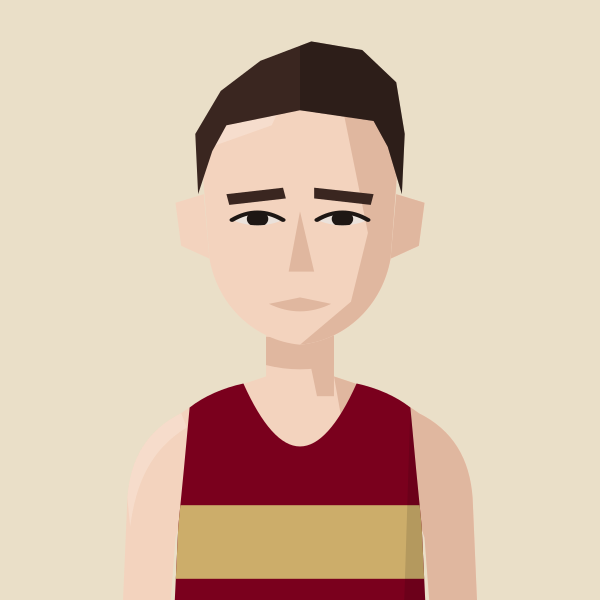
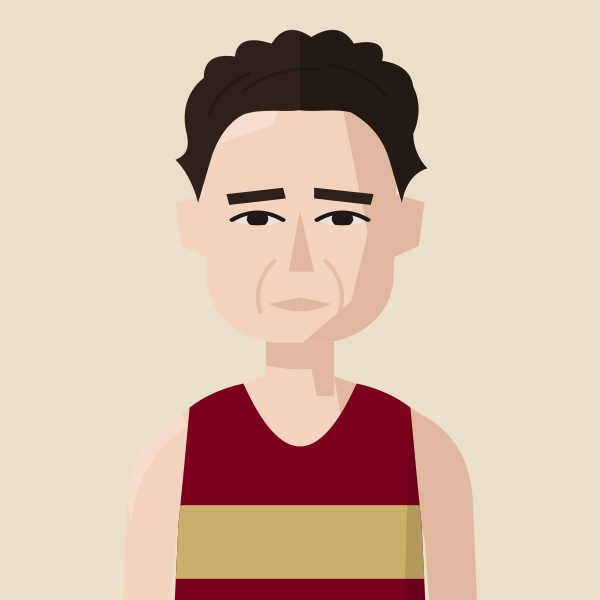
Portraits from The Belgravian, batch 7: Gerry North (redraw), Geoff North, Laurie O'Hara, Chris Steer, Barry Sawyer, Charlie Walker, John Dear, Michael Baker
Claude-Session: https://claude.ai/code/session_01DgcEr9hQHGiZw2mBbM5jbH

diff --git a/files/index.html b/files/index.html
@@ -591,12 +591,12 @@ const LoadingVests=()=>{
 const PORTRAIT_CLUBS=new Set(['BEL','KEN','THH','HHH','H/W','SLH','G&G','RAN','C/C','DUL','HOL','WAL','CRO','WOK','E&E','FUL','SOC','BOX','BOH','AFD','SUR','MIT','REI','DMV','STR','W4H','W/W','K&P','S&D','SEL','DWN','FOT','LCR','ADV','262','MPA','BAC','OME','VAC','HER']);
 // Superstar portraits: every spelling of the athlete's name used in the data -> file in portraits/athletes/
 const PORTRAITS=(()=>{const m={};const add=(file,club,...names)=>names.forEach(n=>{const k=n.toLowerCase();if(m[k]&&m[k].club!==club)m[k+'@'+club]={file,club};else m[k]={file,club};});
-add('kitty-shepherd-cross','BEL','Kitty Shepherd-Cross','Kitty Shepherd Cross');add('jack-kavanagh','HOL','Jack Kavanagh');add('sam-bramwell','HHH','Sam Bramwell');add('suzie-harvey','G&G','Suzie Harvey');add('freddie-hessian','H/W','Freddie Hessian');add('jamie-crowe','H/W','Jamie Crowe');add('sam-gebreselassie','BEL','Samuel Gebreselassie','Sam Gebreselassie');add('jack-brotchie','HHH','Jack Brotchie');add('jack-millar','THH','Jack Millar');add('lucy-jones','HHH','Lucy Jones');add('alex-milne','H/W','Alex Milne');add('josh-trigwell','BEL','Josh Trigwell');add('mack-downie','BEL','Mack Downey','Mack Downie');add('george-ogden','SLH','George Ogden');add('stuart-mccallum','H/W','Stuart McCallum');add('andrew-penney','H/W','Andrew Penney');add('jeremy-dempsey','THH','Jeremy Dempsey');add('henry-hart','BEL','Henry Hart');add('john-sanderson','G&G','John Sanderson');add('andy-fyfe','BEL','Andrew Fyfe','Andy Fyfe');add('saron-haileselase','BEL','Saron Haileselase');add('paskar-owor','BEL','Paskar Owor');add('ruby-carter','H/W','Ruby Carter');add('tom-foster','G&G','Tom Foster');add('mark-tennyson','G&G','Mark Tennyson');add('richard-ollington','THH','Richard Ollington');add('james-preston','BEL','James Preston');add('daniel-wolff','BEL','Daniel Wolff');add('jonny-scott','BEL','Jonathan Scott','Jonny Scott');add('josh-mitchell','BEL','Josh Mitchell');add('dylan-evans','BEL','Dylan Evans');add('morgan-roberts','HHH','Morgan Roberts');add('fred-slemeck','H/W','Fred Slemeck','Frederick Slemeck');add('matthew-edgar','BEL','Matthew Edgar');add('sam-sommerville','BEL','Sam Sommerville');add('richard-mcdowell','H/W','Richard McDowell');add('margaret-coogan','HHH','Margaret Coogan');add('owen-hind','KEN','Owen Hind','Owen Hinds');add('indy-barnes','THH','Indy Barnes');add('conall-mcnally','BEL','Conall McNally');add('rowan-board','HHH','Rowan Board');add('andy-weir','THH','Andy Weir','Andrew Weir');add('neil-chisholm','THH','Neil Chisholm','Neal Chisholm');add('pancho-panchev','H/W','Pancho Panchev');add('adrien-royer','G&G','Adrien Royer');add('rob-kelly','BEL','Robert Kelly','Rob Kelly');add('alex-janiaud','BEL','Alex Janiaud');add('jack-ramm','DUL','Jack Ramm');add('findlay-dyer','BEL','Findlay Dyer');add('james-blackwood','DUL','James Blackwood');add('sonny-nicoll','H/W','Sonny Nicoll');add('anisse-ismaili','THH','Anisse Ismaili');add('caleb-hathaway','HHH','Caleb Hathaway');add('barnaby-day','KEN','Barnaby Day');add('simon-coppard','BEL','Simon Coppard');add('ronan-tanguy','HHH','Ronan Tanguy');add('chris-threadgold','BEL','Chris Threadgold');add('mathew-speed','KEN','Mathew Speed','Matthew Speed');add('john-lethbridge','THH','John Lethbridge');add('oliver-fox','THH','Oliver Fox');add('jack-woods','HOL','Jack Woods');add('larry-ryan','BEL','Larry Ryan');add('ethan-mccolgan','THH','Ethan McColgan');add('jonathan-collier','KEN','Jonathan Collier');add('andrew-green','HOL','Andrew Green','Andy Green');add('fintan-pearce','BEL','Fintan Pearce');add('daniel-shaw','HHH','Daniel Shaw');add('sam-tyas','BEL','Sam Tyas');add('tom-austin','HHH','Tom Austin');add('ian-ellwood','KEN','Ian Ellwood');add('rian-mccawley','BEL','Rian McCawley');add('kieran-barnes','HOL','Kieran Barnes');add('ed-mallett','H/W','Ed Mallett','Edward Mallett');add('john-hutchins','WOK','John Hutchins');add('george-gathercole','THH','George Gathercole');add('nick-lightfoot','G&G','Nick Lightfoot');add('eoin-brady','H/W','Eoin Brady');add('james-stockings','H/W','James Stockings');add('jack-hobden','H/W','Jack Hobden');add('hugo-hewitt','HOL','Hugo Hewitt');add('zach-nolan','BEL','Zach Nolan');add('isaac-lutaya','H/W','Isaac Lutaya');add('oliver-young','BEL','Oliver Young');add('ben-racle','KEN','Ben Racle');add('josh-snow','BEL','Josh Snow');add('oliver-reynolds','BEL','Oliver Reynolds');add('aaron-wilson','DUL','Aaron Wilson');add('liam-burthem','HHH','Liam Burthem');add('dan-pettitt','KEN','Dan Pettitt');add('bob-holt','H/W','Bob Holt');add('dave-holt','H/W','Dave Holt');add('mike-fuller','H/W','Mike Fuller');add('mike-beevor','H/W','Mike Beevor');add('john-day','H/W','John Day');add('john-sullivan','H/W','John Sullivan');add('barry-collins','H/W','Barry Collins');add('bob-rayman','H/W','Bob Rayman');add('pete-mulholland','H/W','Pete Mulholland');add('charlie-eastaugh','H/W','Charlie Eastaugh');add('oli-carrington','H/W','Oli Carrington');add('jonathan-cornish','H/W','Jonathan Cornish');add('christopher-parker','THH','Christopher Parker');add('monty-hudson','BEL','Monty Hudson');add('dan-wallis-gg','G&G','Dan Wallis');add('ben-pearce','HOL','Ben Pearce');add('jacob-brockmann','THH','Jacob Brockmann');add('alex-gutteridge','HHH','Alex Gutteridge');add('tom-davies','H/W','Tom Davies');add('matt-wood','HHH','Matt Wood');add('isaac-parker','KEN','Isaac Parker');add('tom-omahoney','HHH','Tom O\'Mahoney');add('ed-brewer','G&G','Ed Brewer');add('james-bartram','THH','James Bartram');add('charlie-pickett','G&G','Charlie Pickett');add('harry-guttridge','C/C','Harry Guttridge');add('alex-harris','KEN','Alex Harris');add('tom-thornley','HOL','Tom Thornley');add('max-bloor','DUL','Max Bloor');add('john-foxall','HHH','John Foxall');add('robin-boon','G&G','Robin Boon');add('joe-english','KEN','Joe English');add('sebastian-anthony','G&G','Sebastian Anthony');add('thomas-gardner','BEL','Thomas Gardner');add('brian-wilder','HHH','Brian Wilder');add('george-jackson','HHH','George Jackson');add('james-roberts','BEL','James Roberts');add('ed-gibson','DUL','Ed Gibson');add('jack-harrison','SLH','Jack Harrison');add('matthew-varley','BEL','Matthew Varley');add('eddie-rolls','C/C','Eddie Rolls');add('phil-sanders','KEN','Phil Sanders');add('jon-phillips','DUL','Jon Phillips');add('noah-fernandez','H/W','Noah Fernandez');add('paul-calver','HHH','Paul Calver');add('jordan-weaver','KEN','Jordan Weaver');add('john-thresher','BEL','John Thresher','J Thresher');add('junior-galley','BEL','Junior Galley');add('tony-binda','BEL','Tony Binda');add('phil-carstairs','BEL','Phil Carstairs');add('clive-gilby','BEL','Clive Gilby');add('roger-alsop','HHH','Roger Alsop');add('roger-alsop-bel','BEL','Roger Alsop');add('gerry-adams','BEL','Gerry Adams');add('mike-nouch','BEL','Mike Nouch');add('darren-mead','BEL','Darren Mead');add('james-estall','BEL','James Estall','Jim Estall','J Estall');add('thomas-renshaw','THH','Thomas Renshaw','Tom Renshaw');add('amittai-ben-israel','THH','Amittai Ben-Israel');add('helena-keenan','HHH','Helena Keenan');add('eloise-bull','G&G','Eloise Bull');add('gemma-newport','BEL','Gemma Newport');add('sarah-palmer','STR','Sarah Palmer');add('sarah-palmer-ran','RAN','Sarah Palmer');add('elinor-skinner','KEN','Elinor Skinner');add('sarah-holt','STR','Sarah Holt');add('serena-carter','THH','Serena Carter');add('abbey-brooke','BEL','Abbey Brooke');add('becky-briggs','BEL','Becky Briggs');add('maddie-mastrolonardo','BEL','Maddie Mastrolonardo');add('jennifer-nandi','HHH','Jennifer Nandi');add('ella-fennelly','BEL','Ella Fennelly');add('natalie-beadle','BEL','Natalie Beadle');add('pamela-mchutchon','STR','Pamela McHutchon');add('gerry-north','BEL','Gerry North');add('steve-gardner','BEL','Steve Gardner');add('alex-yee','KEN','Alex Yee');add('phil-wicks','BEL','Phil Wicks');add('john-gilbert','KEN','John Gilbert','Jonathan Gilbert');add('chris-busaileh','KEN','Chris Busaileh');add('jim-allchin','KEN','Jim Allchin');add('finn-johnson','H/W','Finn Johnson');add('will-cockerell','BEL','William Cockerell','Will Cockerell');add('nick-goolab','BEL','Nick Goolab');add('arne-dumez','BEL','Arne Dumez');add('geoff-jerwood','HHH','Geoff Jerwood','G Jerwood');add('alex-lee','HHH','Alex Lee');add('benedict-whitby','HHH','Benedict Whitby');add('falilou-kebe','BEL','Falilou Kebe');add('jack-dickson','H/W','Jack Dickson');add('phil-swinburn','HOL','Phil Swinburn');add('rob-armstrong','DUL','Rob Armstrong');add('ashley-goncalves','HHH','Ashley Goncalves');add('eddie-jodrell','BEL','Eddie Jodrell');add('thomas-gandee','BEL','Thomas Gandee');add('max-milarvie','DUL','Max Milarvie');add('alex-lennon','BEL','Alex Lennon');add('james-hoad','THH','James Hoad');add('william-gardner','BEL','William Gardner');add('paddy-roddy','THH','Paddy Roddy','PADDY RoDDY');add('simon-waterhouse','BEL','Simon Waterhouse');add('conall-whelan','BEL','Conall Whelan');add('simon-williams','BEL','Simon Williams');add('christian-lee','HOL','Christian Lee');add('sean-cordon','DUL','Sean Cordon','sean cordon');add('michael-mccarthy','BEL','Michael McCarthy','Michael Mccarthy');add('jeff-cunningham','HHH','Jeff Cunningham');add('sam-peters','H/W','Sam Peters');add('ryan-hickey','HHH','Ryan Hickey');add('ben-scott','BEL','Ben Scott');add('tom-gifford','BEL','Tom Gifford');add('valentin-rigori','BEL','Valentin Rigori');add('david-grima','H/W','David Grima');add('deron-fagan','HHH','Deron Fagan');add('lee-lintern','G&G','Lee Lintern');add('ian-acreman','G&G','Ian Acreman');add('alex-howard','THH','Alex Howard');add('james-hancock','BEL','James Hancock');add('nick-morris','BEL','Nick Morris');add('richard-sun','H/W','Richard Sun');add('jonathan-cocker','G&G','Jonathan Cocker');add('isobel-hodder','BEL','Isobel Hodder');add('emma-howsham','G&G','Emma Howsham');add('eilidh-hide','BEL','Eilidh Hide');add('karen-xiang','BEL','Karen Xiang');add('claire-grima','H/W','Claire Grima');add('emma-gordon','BEL','Emma Gordon');add('emily-lowery','BEL','Emily Lowery');add('felicity-harrison','BEL','Felicity Harrison');add('alice-martin','HOL','Alice Martin');add('juliet-hodder','BEL','Juliet Hodder');add('abbie-bulbulian','C/C','Abbie Bulbulian');add('lara-mangan','BEL','Lara Mangan');add('clare-elms','KEN','Clare Elms');add('james-nutt','HHH','James Nutt');add('colin-high','G&G','Colin High');add('gavin-eccles','BEL','Gavin Eccles');add('samuel-dames','KEN','Samuel Dames');add('tom-lole','BEL','Tom Lole');add('will-marshall','BEL','Will Marshall');add('stephen-mcleod','HHH','Stephen McLeod');add('rory-orsborn','HHH','Rory Orsborn');add('thomas-dugre','BEL','Thomas Dugre');add('arthur-peel','BEL','Arthur Peel');add('angus-lamb','BEL','Angus Lamb');add('andrew-warburton','HHH','Andrew Warburton');add('robert-laing','KEN','Robert Laing');add('toby-cooke','H/W','Toby Cooke');add('harrison-hayman','SLH','Harrison Hayman');add('edward-chuck','DUL','Edward Chuck');add('robert-sesemann','KEN','Robert Sesemann');add('eoin-molloy','BEL','Eoin Molloy');add('ollie-garrod','BEL','Ollie Garrod');add('matthew-houchell','G&G','Matthew Houchell');add('ben-clarke','KEN','Ben Clarke');add('benjamin-hilson','HOL','Benjamin Hilson');add('molly-oconnor','KEN',"Molly O'Connor");add('iona-cousland','KEN','Iona Cousland');add('anika-schwarze-chintapatla','THH','Anika Schwarze-Chintapatla');add('suzy-whatmough','RAN','Suzy Whatmough');add('kristina-popadich','BEL','Kristina Popadich');add('dillan-quinn','H/W','Dillan Quinn');add('sarah-riceman','BEL','Sarah Riceman');add('holly-pan','BEL','Holly Pan');add('jermaine-mays','SLH','Jermaine Mays');add('gary-staines','BEL','Gary Staines');add('charlie-wyllie','H/W','Charlie Wyllie');add('george-cotton','WOK','George Cotton');add('cameron-reilly','G&G','Cameron Reilly');add('jack-dormer','WOK','Jack Dormer');add('lea-adamson','BEL','Lea Adamson');add('max-heyden','BEL','Max Heyden');add('ian-crowe-wright','BEL','Ian Crowe-Wright');add('neil-wilson','BEL','Neil Wilson');add('lloyd-kempson','BEL','Lloyd Kempson');add('andy-coley-maud','G&G','Andy Coley-Maud');add('dan-cliffe','H/W','Dan Cliffe');add('patrick-mcdougall','BEL','Patrick McDougall','Patrick Mcdougall');add('callum-stewart','BEL','Callum Stewart');add('jamie-parkinson','THH','Jamie Parkinson');add('phil-sesemann','KEN','Phil Sesemann');add('andy-coley-maud-cc','C/C','Andy Coley-Maud');add('jon-pepper-slh','SLH','Jon Pepper');add('ralph-street','RAN','Ralph Street');add('jon-pepper','RAN','Jon Pepper');add('kevin-quinn','SLH','Kevin Quinn');add('frank-tickner','KEN','Frank Tickner');add('paul-pollock','KEN','Paul Pollock');add('chris-busaileh-hhh','HHH','Chris Busaileh','Chris Busileah');add('james-mcmullan','THH','James McMullan');add('ben-hurley','BEL','Ben Hurley');add('alice-crane','DMV','Alice Crane');add('martina-conner','BEL','Martina Conner');add('georgie-grgec','HHH','Georgie Grgec');add('katie-snowden','HHH','Katie Snowden');add('kate-axford','BEL','Kate Axford');add('sarah-astin','BEL','Sarah Astin');add('georgie-bruinvels','SLH','Georgie Bruinvels','G Bruinvels','Georgia Bruinvels');add('samantha-munday','BEL','Samantha Munday','Sanantha Munday');add('holly-nixon','BEL','Holly Nixon');add('sophie-harris','BEL','Sophie Harris');add('isabel-brinsden','E&E','Isabel Brinsden');add('mimi-corden-lloyd','BEL','Mimi Corden-Lloyd');add('steph-hewitt','BEL','Stephanie Hewitt','Steph Hewitt');add('jared-martin','THH','Jared Martin');add('david-bowers','BEL','David Bowers','Dave Bowers');add('stuart-major','SLH','Stuart Major');add('stuart-major-thh','THH','Stuart Major');add('bernie-ford','AFD','Bernie Ford','B Ford');add('dave-taylor','HHH','Dave Taylor');add('arlo-ludewick','HHH','Arlo Ludewick');add('molly-smith','HHH','Molly Smith');add('tom-conlon','HHH','Tom Conlon','T Conlon');add('mike-cummings','HHH','Mike Cummings','M Cummings');add('simon-wurr','THH','Simon Wurr','S Wurr');add('cameron-dockerill','KEN','Cameron Dockerill','Cam Dockerill');add('james-ewing','KEN','James Ewing','Jamie Ewing');add('james-murray','KEN','James Murray');add('phil-woodford-smith','KEN','Phil Woodford-Smith');add('clare-pauzers','HHH','Clare Pauzers','Clare Pauzer','Claire Pauzer');add('steve-smythe','DUL','Steve Smythe','S Smythe','S Smyth','Steve Smyth','SMYTHE');add('steve-smythe-hhh','HHH','Steve Smythe');add('david-symons','THH','David Symons','Dave Symons','D Symons');add('john-foss','SLH','John Foss','John Fosse');add('lucy-macalister','THH','Lucy Macalister','L Macalister');add('vic-maughan','HHH','Vic Maughan','Vic Maughn','Victor Maughn','V Maughan','V Maughn','V Maugan');add('lewis-lloyd','HHH','Lewis Lloyd');add('nic-lukies','BEL','Nic Lukies');add('max-nicholls','KEN','Max Nicholls');add('nick-acfield','KEN','Nick Acfield');add('olly-buck','KEN','Olly Buck');add('dame-dibaba','KEN','Dame Dibaba');add('chris-greenwood','KEN','Chris Greenwood','Christopher Greenwood');add('chris-keavey','BEL','Chris Keavey','C Keavey');add('john-moore','BEL','John Moore');add('john-bromley','BEL','John Bromley');add('don-maclean','BEL','Don Maclean','Don McLean','D Maclean');add('david-north','BEL','Dave North','David North','D North');add('mark-waller','BEL','Mark Waller','M Waller');add('john-gladwin','BEL','John Gladwin','J Gladwin');add('alan-black','BEL','Alan Black');add('james-kelly','BEL','James Kelly');add('russell-dessaix-chin','BEL','Russell Dessaix-Chin');add('malachi-byansi','BEL','Malachi Byansi','Mal Byansi','M Byansi','Martin Byansi','Moses Byansi');add('chris-moss','BEL','Chris Moss');add('richard-ward','BEL','Richard Ward');add('david-anderson','BEL','David Anderson');add('spencer-barden','BEL','Spencer Barden');add('jonathon-blackledge','BEL','Jonathon Blackledge','J Blackledge');add('peter-clarke','H/W','Peter Clarke','P Clarke','Pete Clarke');add('mark-sinclair','BEL','Mark Sinclair','M Sinclair');add('jean-paul-wright','BEL','Jean Paul Wright','J Wright');add('mike-hayes','BEL','Mike Hayes','M Hayes');add('marcello-bizio','BEL','Marcello Bizio','M Bizio');add('ollie-foote','BEL','Oliver Foote','Ollie Foote','O Foote');add('tim-watson','BEL','Tim Watson','T Watson');add('mark-miles','BEL','Mark Miles','M Miles');add('kevin-nash','BEL','Kevin Nash','K Nash');add('paul-freary','BEL','Paul Freary','P Freary');add('stephen-sharp','BEL','Steve Sharp','Stephen Sharp');add('kassa-tadesse','BEL','Kassa Tadesse','K Tadesse');add('mike-farmery','THH','Mike Farmery','M Farmery','N Farmery');add('tom-south','DUL','Tom South','Thomas South');add('peter-giles','H/W','Peter Giles');add('peter-giles-thh','THH','Peter Giles');add('simon-coombes','HHH','Simon Coombes','S Coombes');add('david-ogden','SLH','David Ogden','Dave Ogden','D Ogden');add('robert-elphick','KEN','Robert Elphick');add('tony-harran','HHH','Tony Harran','Anthony Harran','A Harran','T Harran');add('ben-reynolds','THH','Ben Reynolds','B Reynolds');add('tom-jervis','H/W','Tom Jervis');add('nick-torry','KEN','Nick Torry','Nicholas Torry');add('john-bicourt','BEL','John Bicourt','J Bicourt');add('ruby-whyte-wilding','BEL','Ruby Whyte-Wilding');add('sophie-tooley','HHH','Sophie Tooley');add('catherine-kandie','KEN','Catherine Kandie');add('olivia-stillman','HHH','Olivia Stillman');add('alex-gandee','BEL','Alex Gandee');add('billie-mcclosky','BEL','Billie McClosky');add('lisa-bailey','STR','Lisa Bailey');add('amy-clements','KEN','Amy Clements');add('bethanie-murray','THH','Bethanie Murray');add('evie-warren','G&G','Evie Warren');add('lucy-peters','BEL','Lucy Peters');add('emma-lord','H/W','Emma Lord');add('alice-bridger-morales','HHH','Alice Bridger Morales');add('emily-bradley','BEL','Emily Bradley');add('isabelle-pickett','G&G','Isabelle Pickett');add('felicity-hayward','THH','Felicity Hayward');add('gabriel-reynolds','HHH','Gabriel Reynolds');add('lara-bromilow','KEN','Lara Bromilow');add('megan-gildea','HHH','Megan Gildea');add('maeve-kenny','SLH','Maeve Kenny');add('emilie-arnoux','BEL','Emilie Arnoux');add('katie-good','KEN','Katie Good');add('ellie-freeden','KEN','Ellie Freeden');add('alice-smith','SLH','Alice Smith');add('florence-wiggins','THH','Florence Wiggins');add('alexandra-barbour','BEL','Alex Barbour','Alexandra Barbour');add('ella-king-powrie','BEL','Ella King Powrie');add('betsy-griffiths','RAN','Betsy Griffiths');add('nicola-douglas','STR','Nicola Douglas');add('georgie-furze','WOK','Georgie Furze');add('emma-rowland','BEL','Emma Rowland');add('charlotte-griffiths','BEL','Charlotte Griffiths');add('mary-james','SLH','Mary James');add('penny-oliver','BEL','Penny Oliver');add('ava-mcandie','H/W','Ava McAndie');add('bethan-goddard','BEL','Bethan Goddard');add('nikki-sturzaker','HHH','Nikki Sturzaker');add('hannah-english','HHH','Hannah English');add('clara-pettit','H/W','Clara Pettit');add('adrian-major','BEL','Adrian Major');add('bill-kerr','BEL','Bill Kerr','W Kerr');add('brian-gorman','BEL','Brian Gorman','B Gorman');add('charlie-dabbs','BEL','Charlie Dabbs','C Dabbs');add('charlie-manning','BEL','Charlie Manning','C Manning','Charlie Maning');add('john-davies','BEL','John Davies');add('lionel-mann','BEL','Lionel Mann','L Mann');add('pat-newell','BEL','Pat Newell','P Newell');add('tony-fairclough','BEL','Tony Fairclough');add('trevor-hart','BEL','Trevor Hart');add('ron-linstead','BEL','Ron Linstead','R Linstead');add('john-baker','BEL','John Baker','J V Baker','J Baker');add('simon-holmes','BEL','Simon Holmes','S Holmes');add('mike-kortenray','H/W','Mike Kortenray','M Kortenray');add('geoff-biscoe','MIT','Geoff Biscoe','G Biscoe');add('andy-north','BEL','Andy North','A North');add('charlie-dickinson','BEL','Charlie Dickinson','C Dickinson');add('dave-beaver','BEL','Dave Beaver','D Beaver');add('john-mather','BEL','John Mather','J Mather','Jon Mather');add('jon-hobbs','BEL','Jon Hobbs','J Hobbs');add('justin-chaston','BEL','Justin Chaston','J Chaston');add('matt-chaston','BEL','Matt Chaston','M Chaston');add('mark-anderson','BEL','Mark Anderson','M Anderson');add('martin-lake','BEL','Martin Lake','M Lake');add('martin-lewington','BEL','Martin Lewington','M Lewington');add('pete-gardner','BEL','Pete Gardner','P Gardner');add('ray-foley','BEL','Ray Foley','R Foley');add('richard-langley','BEL','Richard Langley');add('don-faircloth','CRO','Don Faircloth','D Faircloth');add('john-kimaiyo','BEL','John Kimaiyo');add('martin-dent','BEL','Martin Dent');add('catherine-bryson','BEL','Catherine Bryson','C Bryson');add('gabby-collison','BEL','Gabby Collison','G Collison','Gabrielle Collison');add('jodie-favell','BEL','Jodie Favell','Jodie Albrow');add('louise-cooper','BEL','Louise Cooper','L Cooper');add('sarah-murphy','BEL','Sarah Murphy');add('tilly-heaton','C/C','Tilly Heaton','Mathilde Heaton','Matilda Heaton');add('tilly-heaton-bel','BEL','Tilly Heaton','Mathilde Heaton','Matilda Heaton');add('vicky-clarke','BEL','Vicky Clarke','Victoria Clarke');
+add('kitty-shepherd-cross','BEL','Kitty Shepherd-Cross','Kitty Shepherd Cross');add('jack-kavanagh','HOL','Jack Kavanagh');add('sam-bramwell','HHH','Sam Bramwell');add('suzie-harvey','G&G','Suzie Harvey');add('freddie-hessian','H/W','Freddie Hessian');add('jamie-crowe','H/W','Jamie Crowe');add('sam-gebreselassie','BEL','Samuel Gebreselassie','Sam Gebreselassie');add('jack-brotchie','HHH','Jack Brotchie');add('jack-millar','THH','Jack Millar');add('lucy-jones','HHH','Lucy Jones');add('alex-milne','H/W','Alex Milne');add('josh-trigwell','BEL','Josh Trigwell');add('mack-downie','BEL','Mack Downey','Mack Downie');add('george-ogden','SLH','George Ogden');add('stuart-mccallum','H/W','Stuart McCallum');add('andrew-penney','H/W','Andrew Penney');add('jeremy-dempsey','THH','Jeremy Dempsey');add('henry-hart','BEL','Henry Hart');add('john-sanderson','G&G','John Sanderson');add('andy-fyfe','BEL','Andrew Fyfe','Andy Fyfe');add('saron-haileselase','BEL','Saron Haileselase');add('paskar-owor','BEL','Paskar Owor');add('ruby-carter','H/W','Ruby Carter');add('tom-foster','G&G','Tom Foster');add('mark-tennyson','G&G','Mark Tennyson');add('richard-ollington','THH','Richard Ollington');add('james-preston','BEL','James Preston');add('daniel-wolff','BEL','Daniel Wolff');add('jonny-scott','BEL','Jonathan Scott','Jonny Scott');add('josh-mitchell','BEL','Josh Mitchell');add('dylan-evans','BEL','Dylan Evans');add('morgan-roberts','HHH','Morgan Roberts');add('fred-slemeck','H/W','Fred Slemeck','Frederick Slemeck');add('matthew-edgar','BEL','Matthew Edgar');add('sam-sommerville','BEL','Sam Sommerville');add('richard-mcdowell','H/W','Richard McDowell');add('margaret-coogan','HHH','Margaret Coogan');add('owen-hind','KEN','Owen Hind','Owen Hinds');add('indy-barnes','THH','Indy Barnes');add('conall-mcnally','BEL','Conall McNally');add('rowan-board','HHH','Rowan Board');add('andy-weir','THH','Andy Weir','Andrew Weir');add('neil-chisholm','THH','Neil Chisholm','Neal Chisholm');add('pancho-panchev','H/W','Pancho Panchev');add('adrien-royer','G&G','Adrien Royer');add('rob-kelly','BEL','Robert Kelly','Rob Kelly');add('alex-janiaud','BEL','Alex Janiaud');add('jack-ramm','DUL','Jack Ramm');add('findlay-dyer','BEL','Findlay Dyer');add('james-blackwood','DUL','James Blackwood');add('sonny-nicoll','H/W','Sonny Nicoll');add('anisse-ismaili','THH','Anisse Ismaili');add('caleb-hathaway','HHH','Caleb Hathaway');add('barnaby-day','KEN','Barnaby Day');add('simon-coppard','BEL','Simon Coppard');add('ronan-tanguy','HHH','Ronan Tanguy');add('chris-threadgold','BEL','Chris Threadgold');add('mathew-speed','KEN','Mathew Speed','Matthew Speed');add('john-lethbridge','THH','John Lethbridge');add('oliver-fox','THH','Oliver Fox');add('jack-woods','HOL','Jack Woods');add('larry-ryan','BEL','Larry Ryan');add('ethan-mccolgan','THH','Ethan McColgan');add('jonathan-collier','KEN','Jonathan Collier');add('andrew-green','HOL','Andrew Green','Andy Green');add('fintan-pearce','BEL','Fintan Pearce');add('daniel-shaw','HHH','Daniel Shaw');add('sam-tyas','BEL','Sam Tyas');add('tom-austin','HHH','Tom Austin');add('ian-ellwood','KEN','Ian Ellwood');add('rian-mccawley','BEL','Rian McCawley');add('kieran-barnes','HOL','Kieran Barnes');add('ed-mallett','H/W','Ed Mallett','Edward Mallett');add('john-hutchins','WOK','John Hutchins');add('george-gathercole','THH','George Gathercole');add('nick-lightfoot','G&G','Nick Lightfoot');add('eoin-brady','H/W','Eoin Brady');add('james-stockings','H/W','James Stockings');add('jack-hobden','H/W','Jack Hobden');add('hugo-hewitt','HOL','Hugo Hewitt');add('zach-nolan','BEL','Zach Nolan');add('isaac-lutaya','H/W','Isaac Lutaya');add('oliver-young','BEL','Oliver Young');add('ben-racle','KEN','Ben Racle');add('josh-snow','BEL','Josh Snow');add('oliver-reynolds','BEL','Oliver Reynolds');add('aaron-wilson','DUL','Aaron Wilson');add('liam-burthem','HHH','Liam Burthem');add('dan-pettitt','KEN','Dan Pettitt');add('bob-holt','H/W','Bob Holt');add('dave-holt','H/W','Dave Holt');add('mike-fuller','H/W','Mike Fuller');add('mike-beevor','H/W','Mike Beevor');add('john-day','H/W','John Day');add('john-sullivan','H/W','John Sullivan');add('barry-collins','H/W','Barry Collins');add('bob-rayman','H/W','Bob Rayman');add('pete-mulholland','H/W','Pete Mulholland');add('charlie-eastaugh','H/W','Charlie Eastaugh');add('oli-carrington','H/W','Oli Carrington');add('jonathan-cornish','H/W','Jonathan Cornish');add('christopher-parker','THH','Christopher Parker');add('monty-hudson','BEL','Monty Hudson');add('dan-wallis-gg','G&G','Dan Wallis');add('ben-pearce','HOL','Ben Pearce');add('jacob-brockmann','THH','Jacob Brockmann');add('alex-gutteridge','HHH','Alex Gutteridge');add('tom-davies','H/W','Tom Davies');add('matt-wood','HHH','Matt Wood');add('isaac-parker','KEN','Isaac Parker');add('tom-omahoney','HHH','Tom O\'Mahoney');add('ed-brewer','G&G','Ed Brewer');add('james-bartram','THH','James Bartram');add('charlie-pickett','G&G','Charlie Pickett');add('harry-guttridge','C/C','Harry Guttridge');add('alex-harris','KEN','Alex Harris');add('tom-thornley','HOL','Tom Thornley');add('max-bloor','DUL','Max Bloor');add('john-foxall','HHH','John Foxall');add('robin-boon','G&G','Robin Boon');add('joe-english','KEN','Joe English');add('sebastian-anthony','G&G','Sebastian Anthony');add('thomas-gardner','BEL','Thomas Gardner');add('brian-wilder','HHH','Brian Wilder');add('george-jackson','HHH','George Jackson');add('james-roberts','BEL','James Roberts');add('ed-gibson','DUL','Ed Gibson');add('jack-harrison','SLH','Jack Harrison');add('matthew-varley','BEL','Matthew Varley');add('eddie-rolls','C/C','Eddie Rolls');add('phil-sanders','KEN','Phil Sanders');add('jon-phillips','DUL','Jon Phillips');add('noah-fernandez','H/W','Noah Fernandez');add('paul-calver','HHH','Paul Calver');add('jordan-weaver','KEN','Jordan Weaver');add('john-thresher','BEL','John Thresher','J Thresher');add('junior-galley','BEL','Junior Galley');add('tony-binda','BEL','Tony Binda');add('phil-carstairs','BEL','Phil Carstairs');add('clive-gilby','BEL','Clive Gilby');add('roger-alsop','HHH','Roger Alsop');add('roger-alsop-bel','BEL','Roger Alsop');add('gerry-adams','BEL','Gerry Adams');add('mike-nouch','BEL','Mike Nouch');add('darren-mead','BEL','Darren Mead');add('james-estall','BEL','James Estall','Jim Estall','J Estall');add('thomas-renshaw','THH','Thomas Renshaw','Tom Renshaw');add('amittai-ben-israel','THH','Amittai Ben-Israel');add('helena-keenan','HHH','Helena Keenan');add('eloise-bull','G&G','Eloise Bull');add('gemma-newport','BEL','Gemma Newport');add('sarah-palmer','STR','Sarah Palmer');add('sarah-palmer-ran','RAN','Sarah Palmer');add('elinor-skinner','KEN','Elinor Skinner');add('sarah-holt','STR','Sarah Holt');add('serena-carter','THH','Serena Carter');add('abbey-brooke','BEL','Abbey Brooke');add('becky-briggs','BEL','Becky Briggs');add('maddie-mastrolonardo','BEL','Maddie Mastrolonardo');add('jennifer-nandi','HHH','Jennifer Nandi');add('ella-fennelly','BEL','Ella Fennelly');add('natalie-beadle','BEL','Natalie Beadle');add('pamela-mchutchon','STR','Pamela McHutchon');add('gerry-north','BEL','Gerry North','G North');add('steve-gardner','BEL','Steve Gardner');add('alex-yee','KEN','Alex Yee');add('phil-wicks','BEL','Phil Wicks');add('john-gilbert','KEN','John Gilbert','Jonathan Gilbert');add('chris-busaileh','KEN','Chris Busaileh');add('jim-allchin','KEN','Jim Allchin');add('finn-johnson','H/W','Finn Johnson');add('will-cockerell','BEL','William Cockerell','Will Cockerell');add('nick-goolab','BEL','Nick Goolab');add('arne-dumez','BEL','Arne Dumez');add('geoff-jerwood','HHH','Geoff Jerwood','G Jerwood');add('alex-lee','HHH','Alex Lee');add('benedict-whitby','HHH','Benedict Whitby');add('falilou-kebe','BEL','Falilou Kebe');add('jack-dickson','H/W','Jack Dickson');add('phil-swinburn','HOL','Phil Swinburn');add('rob-armstrong','DUL','Rob Armstrong');add('ashley-goncalves','HHH','Ashley Goncalves');add('eddie-jodrell','BEL','Eddie Jodrell');add('thomas-gandee','BEL','Thomas Gandee');add('max-milarvie','DUL','Max Milarvie');add('alex-lennon','BEL','Alex Lennon');add('james-hoad','THH','James Hoad');add('william-gardner','BEL','William Gardner');add('paddy-roddy','THH','Paddy Roddy','PADDY RoDDY');add('simon-waterhouse','BEL','Simon Waterhouse');add('conall-whelan','BEL','Conall Whelan');add('simon-williams','BEL','Simon Williams');add('christian-lee','HOL','Christian Lee');add('sean-cordon','DUL','Sean Cordon','sean cordon');add('michael-mccarthy','BEL','Michael McCarthy','Michael Mccarthy');add('jeff-cunningham','HHH','Jeff Cunningham');add('sam-peters','H/W','Sam Peters');add('ryan-hickey','HHH','Ryan Hickey');add('ben-scott','BEL','Ben Scott');add('tom-gifford','BEL','Tom Gifford');add('valentin-rigori','BEL','Valentin Rigori');add('david-grima','H/W','David Grima');add('deron-fagan','HHH','Deron Fagan');add('lee-lintern','G&G','Lee Lintern');add('ian-acreman','G&G','Ian Acreman');add('alex-howard','THH','Alex Howard');add('james-hancock','BEL','James Hancock');add('nick-morris','BEL','Nick Morris');add('richard-sun','H/W','Richard Sun');add('jonathan-cocker','G&G','Jonathan Cocker');add('isobel-hodder','BEL','Isobel Hodder');add('emma-howsham','G&G','Emma Howsham');add('eilidh-hide','BEL','Eilidh Hide');add('karen-xiang','BEL','Karen Xiang');add('claire-grima','H/W','Claire Grima');add('emma-gordon','BEL','Emma Gordon');add('emily-lowery','BEL','Emily Lowery');add('felicity-harrison','BEL','Felicity Harrison');add('alice-martin','HOL','Alice Martin');add('juliet-hodder','BEL','Juliet Hodder');add('abbie-bulbulian','C/C','Abbie Bulbulian');add('lara-mangan','BEL','Lara Mangan');add('clare-elms','KEN','Clare Elms');add('james-nutt','HHH','James Nutt');add('colin-high','G&G','Colin High');add('gavin-eccles','BEL','Gavin Eccles');add('samuel-dames','KEN','Samuel Dames');add('tom-lole','BEL','Tom Lole');add('will-marshall','BEL','Will Marshall');add('stephen-mcleod','HHH','Stephen McLeod');add('rory-orsborn','HHH','Rory Orsborn');add('thomas-dugre','BEL','Thomas Dugre');add('arthur-peel','BEL','Arthur Peel');add('angus-lamb','BEL','Angus Lamb');add('andrew-warburton','HHH','Andrew Warburton');add('robert-laing','KEN','Robert Laing');add('toby-cooke','H/W','Toby Cooke');add('harrison-hayman','SLH','Harrison Hayman');add('edward-chuck','DUL','Edward Chuck');add('robert-sesemann','KEN','Robert Sesemann');add('eoin-molloy','BEL','Eoin Molloy');add('ollie-garrod','BEL','Ollie Garrod');add('matthew-houchell','G&G','Matthew Houchell');add('ben-clarke','KEN','Ben Clarke');add('benjamin-hilson','HOL','Benjamin Hilson');add('molly-oconnor','KEN',"Molly O'Connor");add('iona-cousland','KEN','Iona Cousland');add('anika-schwarze-chintapatla','THH','Anika Schwarze-Chintapatla');add('suzy-whatmough','RAN','Suzy Whatmough');add('kristina-popadich','BEL','Kristina Popadich');add('dillan-quinn','H/W','Dillan Quinn');add('sarah-riceman','BEL','Sarah Riceman');add('holly-pan','BEL','Holly Pan');add('jermaine-mays','SLH','Jermaine Mays');add('gary-staines','BEL','Gary Staines');add('charlie-wyllie','H/W','Charlie Wyllie');add('george-cotton','WOK','George Cotton');add('cameron-reilly','G&G','Cameron Reilly');add('jack-dormer','WOK','Jack Dormer');add('lea-adamson','BEL','Lea Adamson');add('max-heyden','BEL','Max Heyden');add('ian-crowe-wright','BEL','Ian Crowe-Wright');add('neil-wilson','BEL','Neil Wilson');add('lloyd-kempson','BEL','Lloyd Kempson');add('andy-coley-maud','G&G','Andy Coley-Maud');add('dan-cliffe','H/W','Dan Cliffe');add('patrick-mcdougall','BEL','Patrick McDougall','Patrick Mcdougall');add('callum-stewart','BEL','Callum Stewart');add('jamie-parkinson','THH','Jamie Parkinson');add('phil-sesemann','KEN','Phil Sesemann');add('andy-coley-maud-cc','C/C','Andy Coley-Maud');add('jon-pepper-slh','SLH','Jon Pepper');add('ralph-street','RAN','Ralph Street');add('jon-pepper','RAN','Jon Pepper');add('kevin-quinn','SLH','Kevin Quinn');add('frank-tickner','KEN','Frank Tickner');add('paul-pollock','KEN','Paul Pollock');add('chris-busaileh-hhh','HHH','Chris Busaileh','Chris Busileah');add('james-mcmullan','THH','James McMullan');add('ben-hurley','BEL','Ben Hurley');add('alice-crane','DMV','Alice Crane');add('martina-conner','BEL','Martina Conner');add('georgie-grgec','HHH','Georgie Grgec');add('katie-snowden','HHH','Katie Snowden');add('kate-axford','BEL','Kate Axford');add('sarah-astin','BEL','Sarah Astin');add('georgie-bruinvels','SLH','Georgie Bruinvels','G Bruinvels','Georgia Bruinvels');add('samantha-munday','BEL','Samantha Munday','Sanantha Munday');add('holly-nixon','BEL','Holly Nixon');add('sophie-harris','BEL','Sophie Harris');add('isabel-brinsden','E&E','Isabel Brinsden');add('mimi-corden-lloyd','BEL','Mimi Corden-Lloyd');add('steph-hewitt','BEL','Stephanie Hewitt','Steph Hewitt');add('jared-martin','THH','Jared Martin');add('david-bowers','BEL','David Bowers','Dave Bowers');add('stuart-major','SLH','Stuart Major');add('stuart-major-thh','THH','Stuart Major');add('bernie-ford','AFD','Bernie Ford','B Ford');add('dave-taylor','HHH','Dave Taylor');add('arlo-ludewick','HHH','Arlo Ludewick');add('molly-smith','HHH','Molly Smith');add('tom-conlon','HHH','Tom Conlon','T Conlon');add('mike-cummings','HHH','Mike Cummings','M Cummings');add('simon-wurr','THH','Simon Wurr','S Wurr');add('cameron-dockerill','KEN','Cameron Dockerill','Cam Dockerill');add('james-ewing','KEN','James Ewing','Jamie Ewing');add('james-murray','KEN','James Murray');add('phil-woodford-smith','KEN','Phil Woodford-Smith');add('clare-pauzers','HHH','Clare Pauzers','Clare Pauzer','Claire Pauzer');add('steve-smythe','DUL','Steve Smythe','S Smythe','S Smyth','Steve Smyth','SMYTHE');add('steve-smythe-hhh','HHH','Steve Smythe');add('david-symons','THH','David Symons','Dave Symons','D Symons');add('john-foss','SLH','John Foss','John Fosse');add('lucy-macalister','THH','Lucy Macalister','L Macalister');add('vic-maughan','HHH','Vic Maughan','Vic Maughn','Victor Maughn','V Maughan','V Maughn','V Maugan');add('lewis-lloyd','HHH','Lewis Lloyd');add('nic-lukies','BEL','Nic Lukies');add('max-nicholls','KEN','Max Nicholls');add('nick-acfield','KEN','Nick Acfield');add('olly-buck','KEN','Olly Buck');add('dame-dibaba','KEN','Dame Dibaba');add('chris-greenwood','KEN','Chris Greenwood','Christopher Greenwood');add('chris-keavey','BEL','Chris Keavey','C Keavey');add('john-moore','BEL','John Moore');add('john-bromley','BEL','John Bromley');add('don-maclean','BEL','Don Maclean','Don McLean','D Maclean');add('david-north','BEL','Dave North','David North','D North');add('mark-waller','BEL','Mark Waller','M Waller');add('john-gladwin','BEL','John Gladwin','J Gladwin');add('alan-black','BEL','Alan Black');add('james-kelly','BEL','James Kelly');add('russell-dessaix-chin','BEL','Russell Dessaix-Chin');add('malachi-byansi','BEL','Malachi Byansi','Mal Byansi','M Byansi','Martin Byansi','Moses Byansi');add('chris-moss','BEL','Chris Moss');add('richard-ward','BEL','Richard Ward');add('david-anderson','BEL','David Anderson');add('spencer-barden','BEL','Spencer Barden');add('jonathon-blackledge','BEL','Jonathon Blackledge','J Blackledge');add('peter-clarke','H/W','Peter Clarke','P Clarke','Pete Clarke');add('mark-sinclair','BEL','Mark Sinclair','M Sinclair');add('jean-paul-wright','BEL','Jean Paul Wright','J Wright');add('mike-hayes','BEL','Mike Hayes','M Hayes');add('marcello-bizio','BEL','Marcello Bizio','M Bizio');add('ollie-foote','BEL','Oliver Foote','Ollie Foote','O Foote');add('tim-watson','BEL','Tim Watson','T Watson');add('mark-miles','BEL','Mark Miles','M Miles');add('kevin-nash','BEL','Kevin Nash','K Nash');add('paul-freary','BEL','Paul Freary','P Freary');add('stephen-sharp','BEL','Steve Sharp','Stephen Sharp');add('kassa-tadesse','BEL','Kassa Tadesse','K Tadesse');add('mike-farmery','THH','Mike Farmery','M Farmery','N Farmery');add('tom-south','DUL','Tom South','Thomas South');add('peter-giles','H/W','Peter Giles');add('peter-giles-thh','THH','Peter Giles');add('simon-coombes','HHH','Simon Coombes','S Coombes');add('david-ogden','SLH','David Ogden','Dave Ogden','D Ogden');add('robert-elphick','KEN','Robert Elphick');add('tony-harran','HHH','Tony Harran','Anthony Harran','A Harran','T Harran');add('ben-reynolds','THH','Ben Reynolds','B Reynolds');add('tom-jervis','H/W','Tom Jervis');add('nick-torry','KEN','Nick Torry','Nicholas Torry');add('john-bicourt','BEL','John Bicourt','J Bicourt');add('ruby-whyte-wilding','BEL','Ruby Whyte-Wilding');add('sophie-tooley','HHH','Sophie Tooley');add('catherine-kandie','KEN','Catherine Kandie');add('olivia-stillman','HHH','Olivia Stillman');add('alex-gandee','BEL','Alex Gandee');add('billie-mcclosky','BEL','Billie McClosky');add('lisa-bailey','STR','Lisa Bailey');add('amy-clements','KEN','Amy Clements');add('bethanie-murray','THH','Bethanie Murray');add('evie-warren','G&G','Evie Warren');add('lucy-peters','BEL','Lucy Peters');add('emma-lord','H/W','Emma Lord');add('alice-bridger-morales','HHH','Alice Bridger Morales');add('emily-bradley','BEL','Emily Bradley');add('isabelle-pickett','G&G','Isabelle Pickett');add('felicity-hayward','THH','Felicity Hayward');add('gabriel-reynolds','HHH','Gabriel Reynolds');add('lara-bromilow','KEN','Lara Bromilow');add('megan-gildea','HHH','Megan Gildea');add('maeve-kenny','SLH','Maeve Kenny');add('emilie-arnoux','BEL','Emilie Arnoux');add('katie-good','KEN','Katie Good');add('ellie-freeden','KEN','Ellie Freeden');add('alice-smith','SLH','Alice Smith');add('florence-wiggins','THH','Florence Wiggins');add('alexandra-barbour','BEL','Alex Barbour','Alexandra Barbour');add('ella-king-powrie','BEL','Ella King Powrie');add('betsy-griffiths','RAN','Betsy Griffiths');add('nicola-douglas','STR','Nicola Douglas');add('georgie-furze','WOK','Georgie Furze');add('emma-rowland','BEL','Emma Rowland');add('charlotte-griffiths','BEL','Charlotte Griffiths');add('mary-james','SLH','Mary James');add('penny-oliver','BEL','Penny Oliver');add('ava-mcandie','H/W','Ava McAndie');add('bethan-goddard','BEL','Bethan Goddard');add('nikki-sturzaker','HHH','Nikki Sturzaker');add('hannah-english','HHH','Hannah English');add('clara-pettit','H/W','Clara Pettit');add('adrian-major','BEL','Adrian Major');add('bill-kerr','BEL','Bill Kerr','W Kerr');add('brian-gorman','BEL','Brian Gorman','B Gorman');add('charlie-dabbs','BEL','Charlie Dabbs','C Dabbs');add('charlie-manning','BEL','Charlie Manning','C Manning','Charlie Maning');add('john-davies','BEL','John Davies');add('lionel-mann','BEL','Lionel Mann','L Mann');add('pat-newell','BEL','Pat Newell','P Newell');add('tony-fairclough','BEL','Tony Fairclough');add('trevor-hart','BEL','Trevor Hart');add('ron-linstead','BEL','Ron Linstead','R Linstead');add('john-baker','BEL','John Baker','J V Baker','J Baker');add('simon-holmes','BEL','Simon Holmes','S Holmes');add('mike-kortenray','H/W','Mike Kortenray','M Kortenray');add('geoff-biscoe','MIT','Geoff Biscoe','G Biscoe');add('andy-north','BEL','Andy North','A North');add('charlie-dickinson','BEL','Charlie Dickinson','C Dickinson');add('dave-beaver','BEL','Dave Beaver','D Beaver');add('john-mather','BEL','John Mather','J Mather','Jon Mather');add('jon-hobbs','BEL','Jon Hobbs','J Hobbs');add('justin-chaston','BEL','Justin Chaston','J Chaston');add('matt-chaston','BEL','Matt Chaston','M Chaston');add('mark-anderson','BEL','Mark Anderson','M Anderson');add('martin-lake','BEL','Martin Lake','M Lake');add('martin-lewington','BEL','Martin Lewington','M Lewington');add('pete-gardner','BEL','Pete Gardner','P Gardner');add('ray-foley','BEL','Ray Foley','R Foley');add('richard-langley','BEL','Richard Langley');add('don-faircloth','CRO','Don Faircloth','D Faircloth');add('john-kimaiyo','BEL','John Kimaiyo');add('martin-dent','BEL','Martin Dent');add('catherine-bryson','BEL','Catherine Bryson','C Bryson');add('gabby-collison','BEL','Gabby Collison','G Collison','Gabrielle Collison');add('jodie-favell','BEL','Jodie Favell','Jodie Albrow');add('louise-cooper','BEL','Louise Cooper','L Cooper');add('sarah-murphy','BEL','Sarah Murphy');add('tilly-heaton','C/C','Tilly Heaton','Mathilde Heaton','Matilda Heaton');add('tilly-heaton-bel','BEL','Tilly Heaton','Mathilde Heaton','Matilda Heaton');add('vicky-clarke','BEL','Vicky Clarke','Victoria Clarke');add('geoff-north','BEL','Geoff North');add('laurie-ohara','BEL','Laurie O\'Hara','L O\'Hara');add('chris-steer','BEL','Chris Steer','C Steer');add('barry-sawyer','BEL','Barry Sawyer','Sawyer');add('charlie-walker','BEL','Charlie Walker','C Walker');add('john-dear','BEL','John Dear','J Dear');add('michael-baker','BEL','Michael Baker');
 return m;})();
 const portraitFile=(name,club)=>{const k=normalizeNameForCompare(name||'').replace(/\s*\(([^)]*)\)$/,(m,c)=>CLUBS[c.toUpperCase()]?'':m);const a=PORTRAITS[k];if(a&&a.club===club)return a.file;const b=PORTRAITS[k+'@'+club];return b?b.file:null;};
 // Athlete header figure: superstar portrait if we have one, else a grey runner in the club vest, else the plain vest icon
 // Changes whenever any portrait changes (set by tools/build_og.py), so browsers fetch fresh images instead of old cached ones
-const PORTRAIT_V='af07883f';
+const PORTRAIT_V='b4bd2931';
 const AthletePortrait=({name,club,w,fill,onClick})=>{const[failed,setFailed]=useState(false);const file=portraitFile(name,club);const src=file?`/portraits/athletes/${file}.svg?v=${PORTRAIT_V}`:PORTRAIT_CLUBS.has(club)?`/portraits/clubs/${club.replace(/\//g,'').replace(/&/g,'and')}.svg?v=${PORTRAIT_V}`:null;if(!src||failed)return<div onClick={onClick} className={onClick?'cursor-pointer':''}><ClubShield club={club} size={w}/></div>;const h=Math.round(w*148/126),ih=Math.round(w*1.4);if(fill)return<div onClick={onClick} className="cursor-pointer" style={{alignSelf:'stretch',minHeight:h,aspectRatio:'126 / 148',flexShrink:0,position:'relative',borderRadius:4,overflow:'hidden'}}><img src={src} alt={file?`Portrait of ${name.replace(/\s*\([^)]*\)$/,'')}`:`Runner in ${CLUBS[club]?.name||club} vest`} style={{position:'absolute',top:0,left:0,display:'block',width:'100%',height:'auto'}} onError={()=>setFailed(true)}/></div>;return<div style={{width:w,height:h,borderRadius:4,overflow:'hidden',flexShrink:0}}><img src={src} alt={file?`Portrait of ${name.replace(/\s*\([^)]*\)$/,'')}`:`Runner in ${CLUBS[club]?.name||club} vest`} width={w} height={ih} style={{display:'block',width:w,height:ih}} onError={()=>setFailed(true)}/></div>;};
 const getClubVestSvg=(club)=>{
   const p="M3 0 L6 0 Q7 4 10 5 Q13 4 14 0 L17 0 L17 20 L3 20 Z";

diff --git a/tools/gen_portraits.py b/tools/gen_portraits.py
@@ -969,6 +969,16 @@ save("ollie-foote", figure("BEL", skin=1, hair="messyvolume", hair_colour="#2E21
 save("spencer-barden", figure("BEL", skin=1, hair="quiffrecede", hair_colour="#9A8A78", brow_colour="#6E5E4C", gaunt=True))
 save("will-cockerell", figure("BEL", skin=1, hair="horseshoe", hair_colour="#4A3A2E", gaunt=True))
 
+# Belgravian archive photos, batch 7 (Oct 2026): 1960s Belgrave, black-and-white photos (hair colour inferred).
+save("gerry-north", figure("BEL", skin=1, hair="messyvolume", hair_colour="#2E211B", jaw="square", creases=True))
+save("geoff-north", figure("BEL", skin=1, hair="quiff", hair_colour="#2E211B"))
+save("laurie-ohara", figure("BEL", skin=1, hair="messyvolume", hair_colour="#A88458", brow_colour="#7A5E3E"))
+save("chris-steer", figure("BEL", skin=1, hair="messyvolume", hair_colour="dark brown", jaw="square"))
+save("barry-sawyer", figure("BEL", skin=1, hair="croprecede", hair_colour="dark brown"))
+save("charlie-walker", figure("BEL", skin=1, hair="quiff", hair_colour="#2E211B", jaw="narrow"))
+save("john-dear", figure("BEL", skin=1, hair="messyvolume", hair_colour="#241A15", glasses="square", glasses_col="#1E1E1E"))
+save("michael-baker", figure("BEL", skin=1, hair="tousled", hair_colour="#2E211B"))
+
 # ---- Site export -------------------------------------------------------------
 # Every live portrait, written to site/<slug>.svg under the exact file name the
 # site uses (files/portraits/athletes/). Most portraits are saved under their
